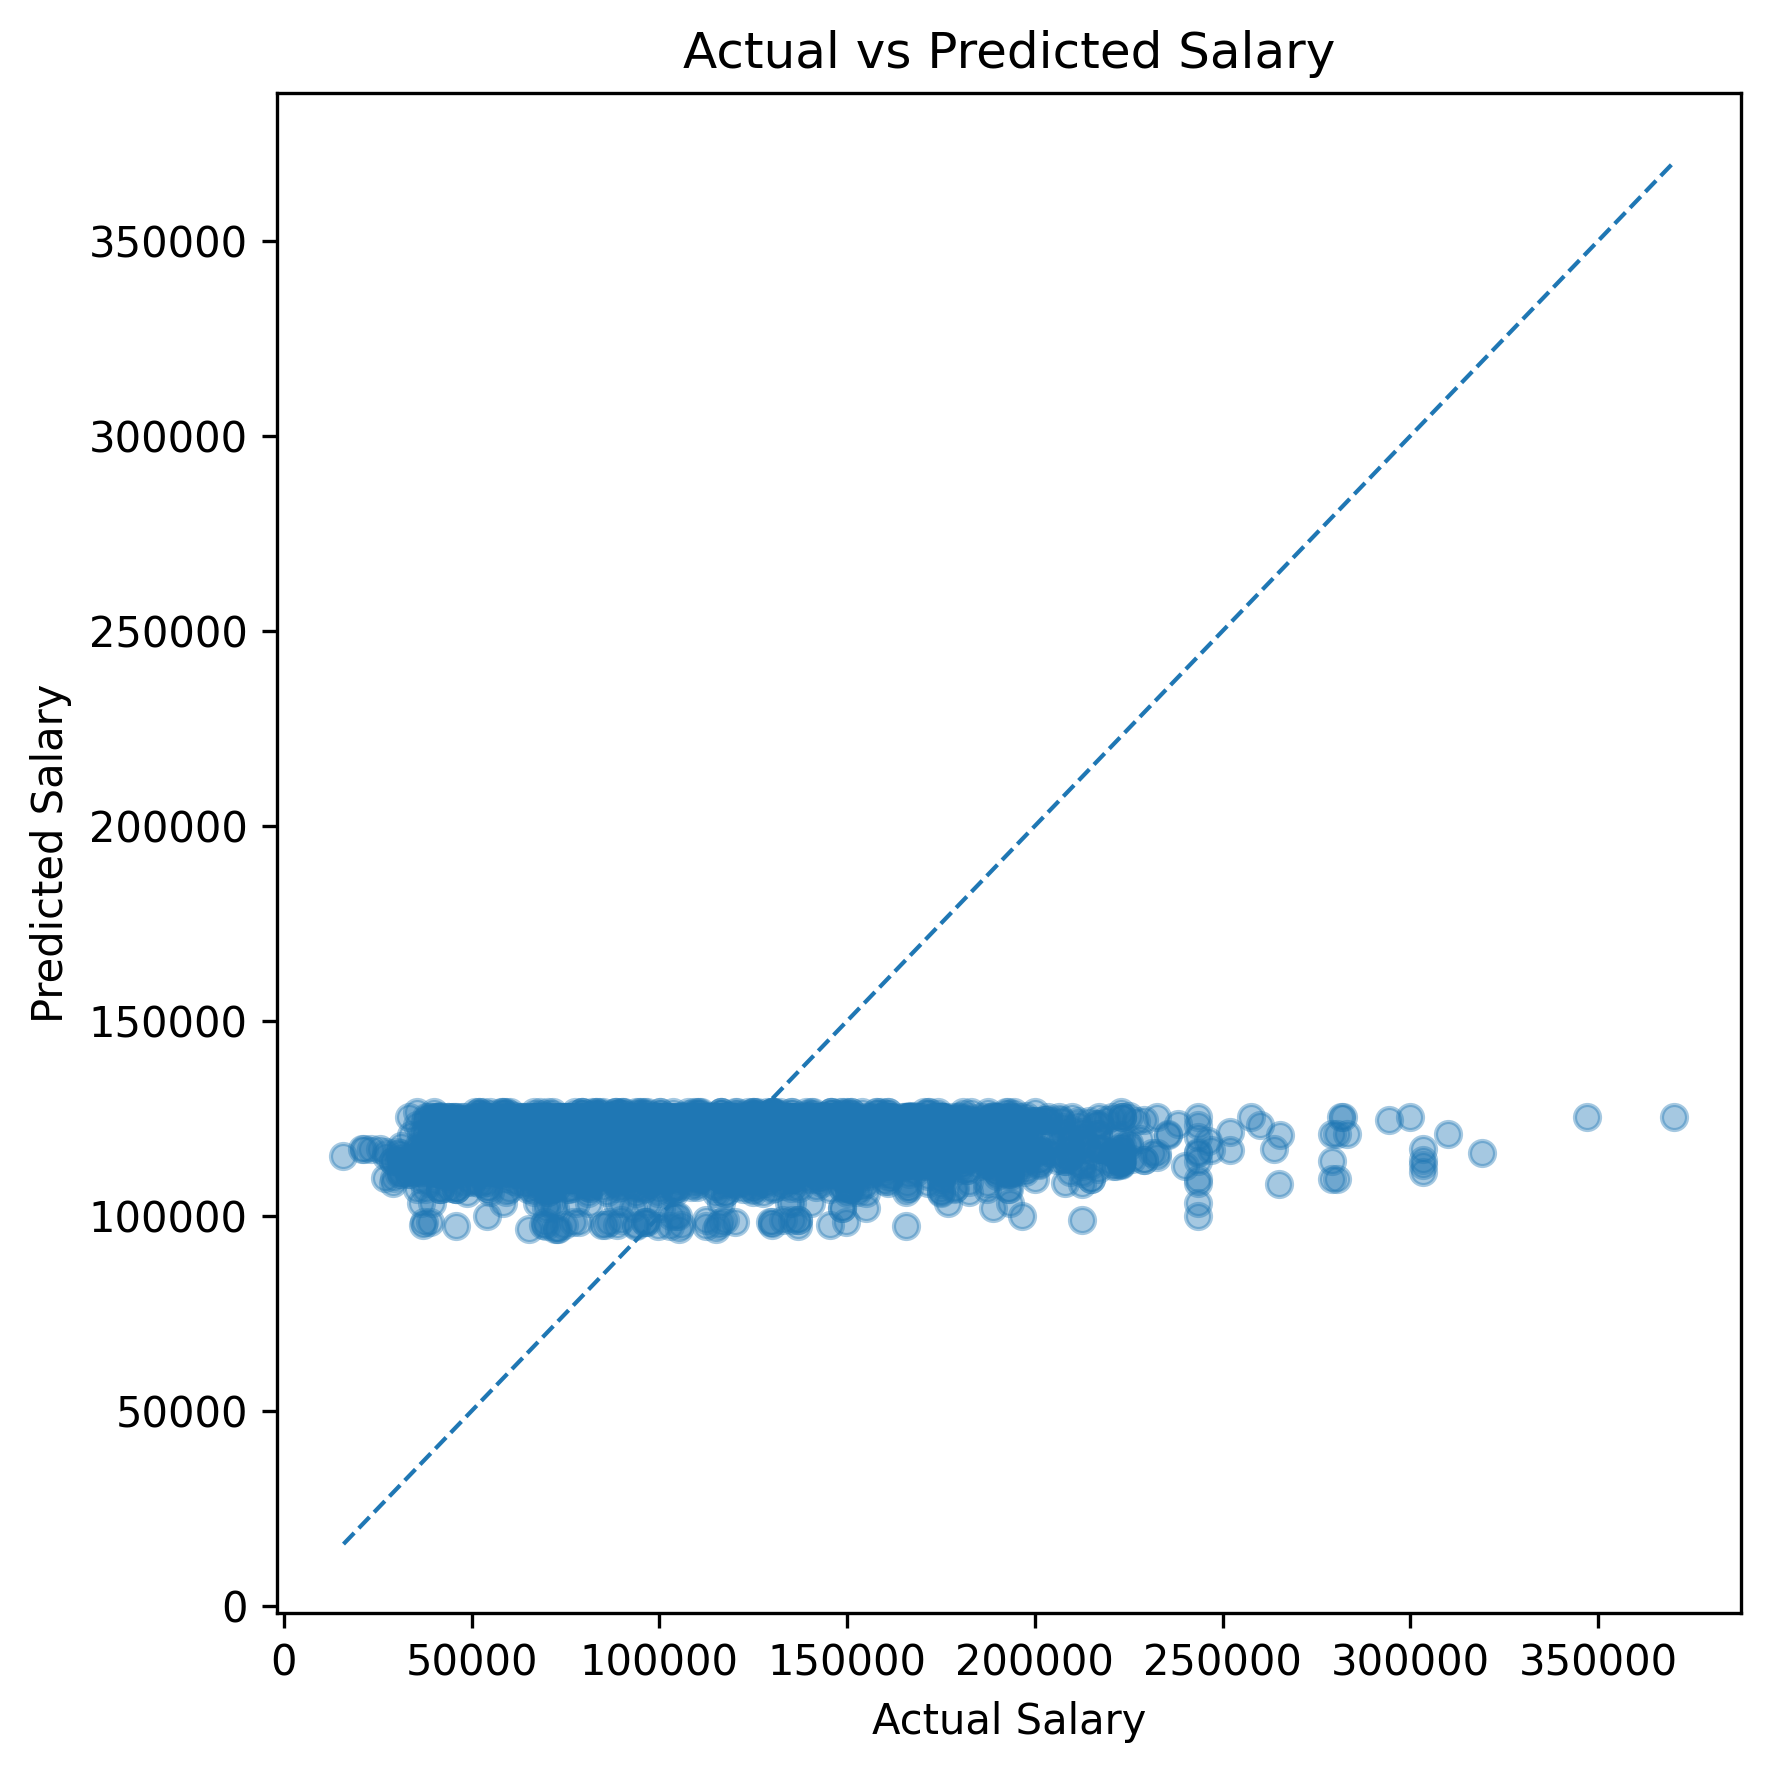
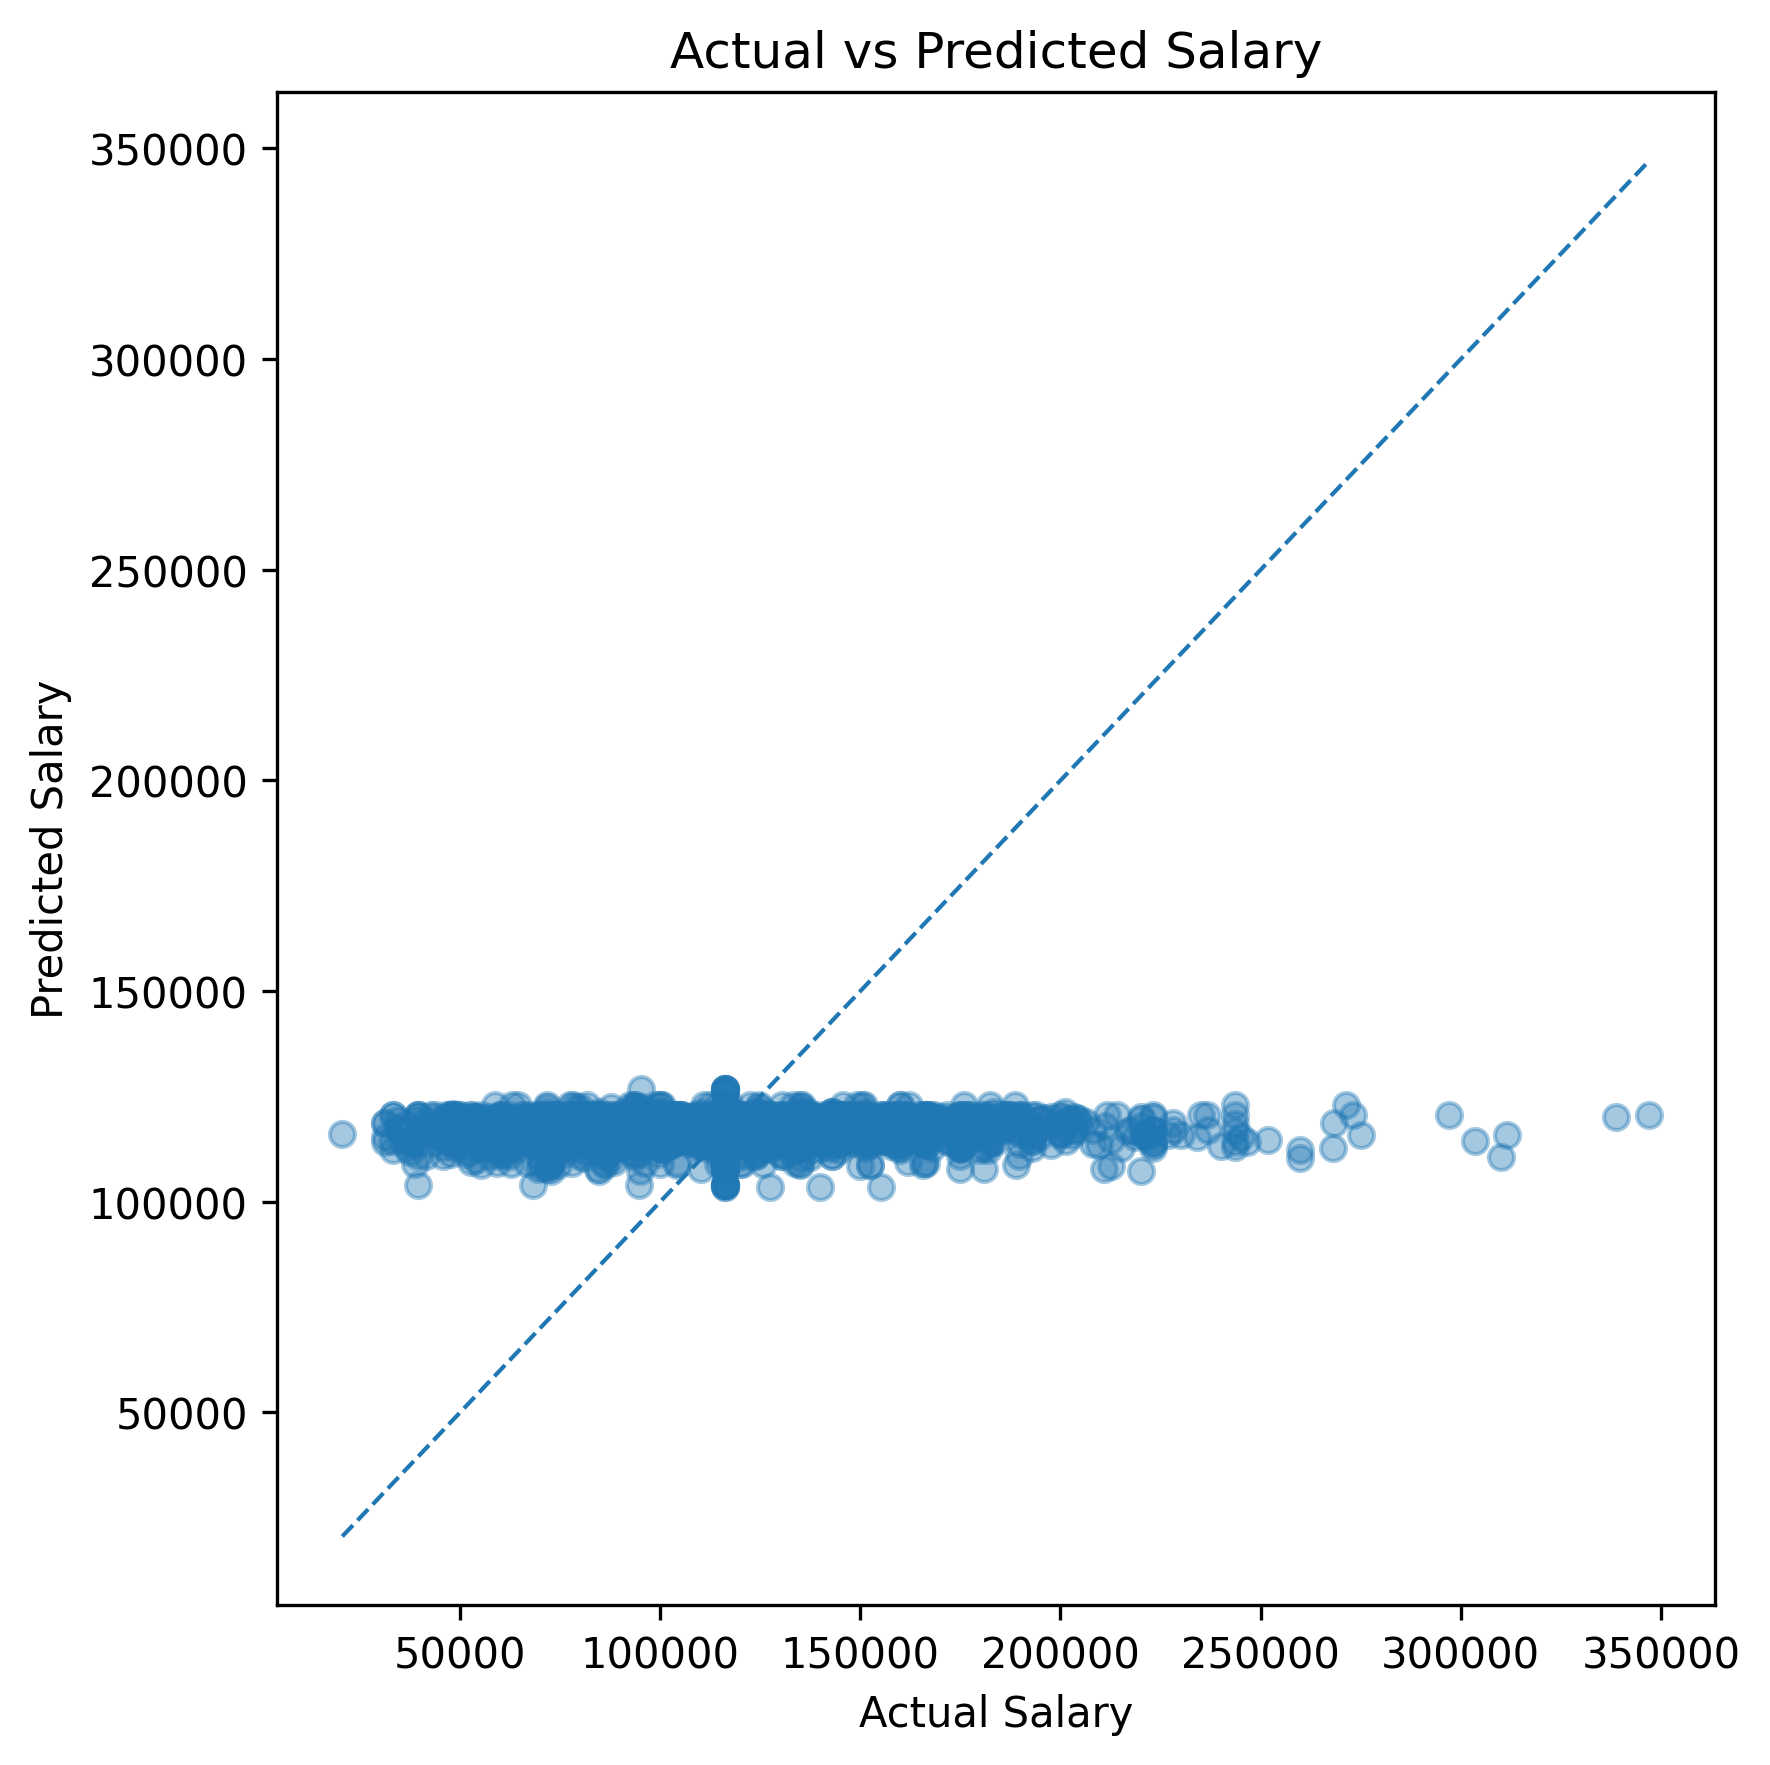
1

diff --git a/.vdoc.c8071c1e-cb61-4f91-900e-8ed62dc216ab.py b/.vdoc.c8071c1e-cb61-4f91-900e-8ed62dc216ab.py
@@ -1,37 +1,40 @@
----
-title: "Machine Learning Models for Geographic and Remote Work Analysis"
-subtitle: "KMeans Clustering, Salary Prediction, and Remote Work Classification"
-author:
-  - name: "Bingrui Qiao"
-  - name: "Zhengyu Zhou"
-  - name: "Junhao Wang"
-    affiliations: "Boston University"
-bibliography: references.bib
-csl: csl/econometrica.csl
-format:
-  html:
-    toc: true
-    number-sections: true
-execute:
-  echo: true
-  eval: true
-  freeze: false
-  error: false
-  cache: false
-  enabled: !expr (os.getenv("CI", "false") == "true")
-jupyter: python3
----
-# Classification: Remote vs Non-Remote Jobs
-```{python}
+# type: ignore
+# flake8: noqa
+#
+#
+#
+#
+#
+#
+#
+#
+#
+#
+#
+#
+#
+#
+#
+#
+#
+#
+#
+#
+#
+#
+#
+#
+#
 #| echo: false
-#| output: true
 import sys, subprocess
 
 for pkg in ["gdown", "pandas", "matplotlib", "missingno", "pyarrow", "scikit-learn"]:
     subprocess.run([sys.executable, "-m", "pip", "install", pkg], check=False)
 ```
-```{python}
+#
 import pandas as pd
+import matplotlib
+matplotlib.use("Agg")
 import matplotlib.pyplot as plt
 import seaborn as sns
 
@@ -154,19 +157,19 @@ fig.tight_layout()
 plt.savefig("figures/remote_confusion_matrix.png", dpi=300, bbox_inches="tight")
 plt.show()
 
-```
-
-This classifier can accurately identify most non-remote positions, but has difficulties in handling remote positions: many truly remote positions are wrongly classified as non-remote positions, indicating that merely relying on location and industry characteristics is not sufficient to capture the patterns suitable for remote work.
-
 #
-```{python}
-```
-
-## Salary Regression: Impact of Geography and Remote Work
-
-In this section, we use a multiple linear regression model to predict job salary based on **geographic location (state)** and **remote work type**. This directly supports our topic of *Geographic and Remote Work Analysis* by quantifying how location and remote flexibility influence pay.
-
-```{python}
+#
+#
+#
+#
+#
+#
+#
+#
+#
+#
+#
+#
 import os
 import pandas as pd
 import numpy as np
@@ -174,6 +177,8 @@ import numpy as np
 from sklearn.model_selection import train_test_split
 from sklearn.linear_model import LinearRegression
 from sklearn.metrics import mean_squared_error, r2_score
+
+import plotly.express as px
 
 # 1. Load cleaned dataset
 DATA_PATH = "data/cleaned_lightcast.csv"
@@ -254,10 +259,10 @@ r2 = r2_score(y_test, y_pred)
 
 print(f"RMSE: {rmse:,.2f}")
 print(f"R²:   {r2:,.3f}")
-```
-
-
-```{python}
+#
+#
+#
+#
 # 9. Coefficients as feature importance
 coef_df = (
     pd.DataFrame({
@@ -268,9 +273,9 @@ coef_df = (
 )
 
 print(coef_df.head(10))
-```
-
-```{python}
+#
+#
+#
 # 10. Plot feature importance (top 20 coefficients) with Matplotlib
 
 top_n = 20
@@ -293,9 +298,9 @@ plt.tight_layout()
 plt.savefig("figures/feature_importance.png", dpi=300, bbox_inches="tight")
 plt.show()
 
-```
-
-```{python}
+#
+#
+#
 # 11. Actual vs Predicted salary scatter plot (Matplotlib)
 
 scatter_df = pd.DataFrame({
@@ -324,4 +329,6 @@ plt.tight_layout()
 plt.savefig("figures/actual_vs_predicted.png", dpi=300, bbox_inches="tight")
 plt.show()
 
-```
+#
+#
+#
